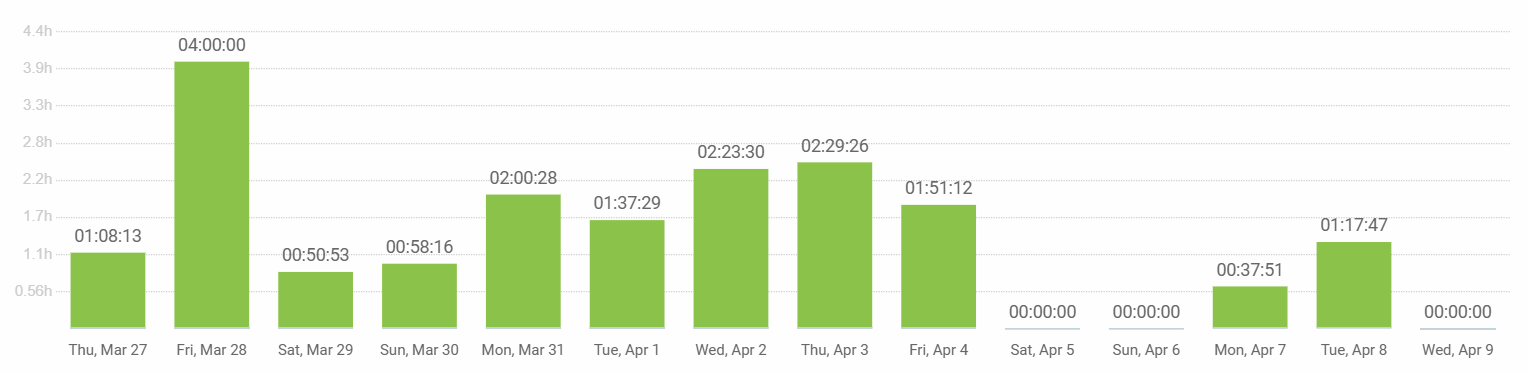
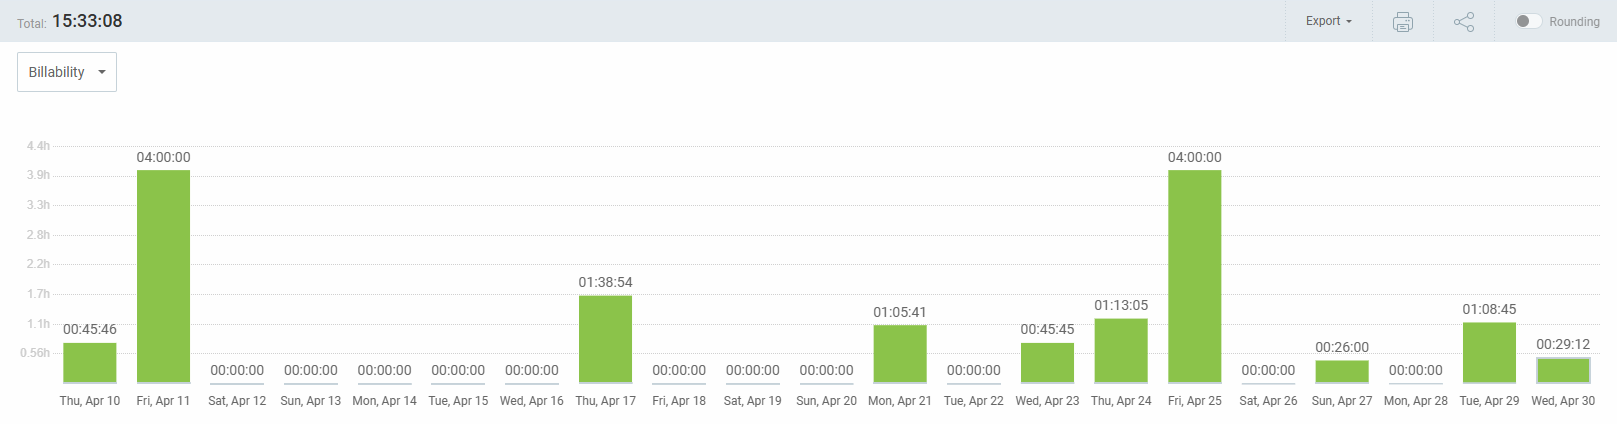
docs(timeReport): timeReport PPL mancasvel

diff --git a/docs/PPL/timeEffortReport.md b/docs/PPL/timeEffortReport.md
@@ -139,22 +139,19 @@
 
 ## Reporte de tiempo de Manuel Castillejo Vela
 
-**Periodo:** 27/03/2025 - 09/04/2025
+**Periodo:** 10/04/2025 - 30/04/2025
 
-**Total de tiempo trabajado:** 19:15:05
+**Total de tiempo trabajado:** 15:54:32
 
 ### Proyecto Pawtel - Distribución del tiempo
-| Description                                           | Time (h) |
-|-------------------------------------------------------|----------|
-| KBReport                                              | 00:51:49 |
-| Reunion semanal                                       | 00:41:14 |
-| Clase                                                 | 04:00:00 |
-| #271 Feature: Cover imagenes                          | 02:16:02 |
-| SLA agreement y pricing                               | 01:08:13 |
-| Informe de IA                                         | 00:25:58 |
-| #276 Actualización cambios en tiempo real edit hotel | 00:35:00 |
-| Adicion de feedback a la base de datos comun         | 00:47:30 |
-| #237 Feature: Funcionamiento imagenes Frontend       | 08:29:19 |
+| Descripción                        | Tiempo     |
+|-----------------------------------|------------|
+| KBReport                           | 00:29:12   |
+| #291 Feature: Desarrollo Android  | 06:18:10   |
+| Clase                              | 08:00:00   |
+| Informe de IA                      | 00:21:24   |
+| Entrega final sprint 3            | 00:45:46   |
+
 ![grafico-de-tiempos](graficas/manuel.png)
 ---
 
